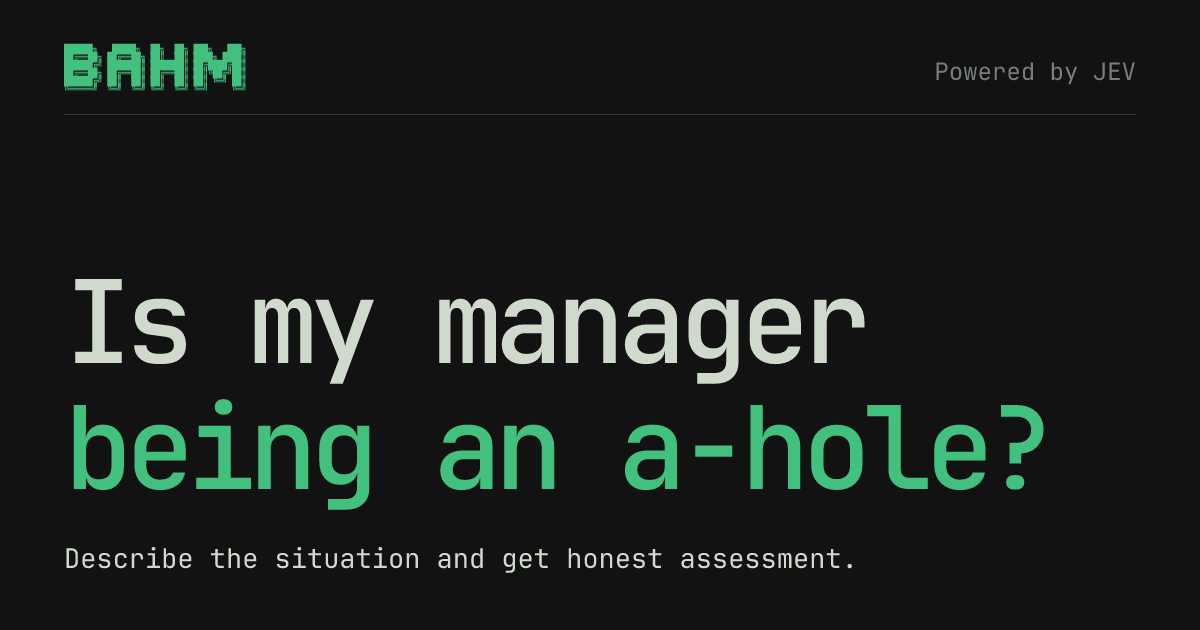
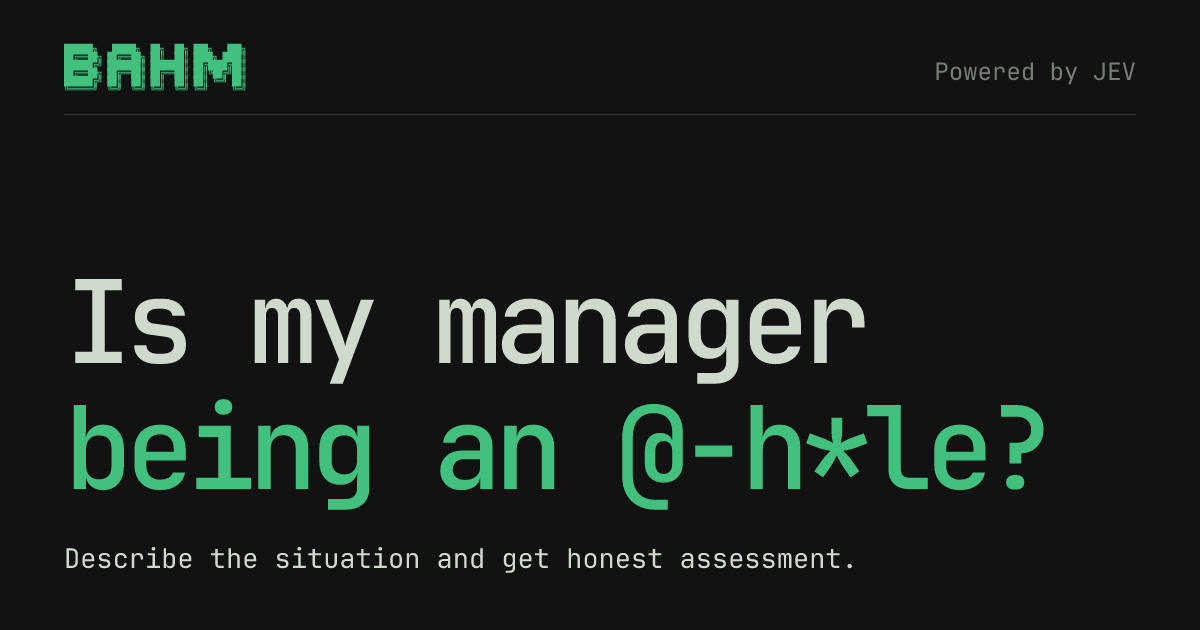
Refine social previews and allow homepage indexing

Changed region(s): [[0.4933, 0.6333, 0.5858, 0.8143], [0.6475, 0.6635, 0.74, 0.7841]]

diff --git a/tests/share.test.js b/tests/share.test.js
@@ -13,7 +13,7 @@ const env = { DB, ASSETS };
 const request = (path, method = 'GET') => worker.fetch(new Request(`https://bahm.example${path}`, { method }), env);
 test('home HTML provides absolute crawler metadata and a real 1200x630 PNG', async () => {
   const html = await (await request('/')).text();
-  assert.match(html, /property="og:image" content="https:\/\/bahm.example\/share\/home.png\?v=12"/);
+  assert.match(html, /property="og:image" content="https:\/\/bahm.example\/share\/home.png\?v=14"/);
   assert.equal((html.match(/<title>/g) || []).length, 1);
   const response = await request('/share/home.png');
   assert.equal(response.headers.get('Content-Type'), 'image/png');
@@ -29,7 +29,7 @@ test('saved results include escaped story descriptions and static verdict image 
     await handleAssessment(new Request('https://bahm.example/api/assess', {method:'POST',headers:{'Content-Type':'application/json'},body:JSON.stringify({id,situation:'Private story text <script>secret</script>'})}), {...env,JEV_API_KEY:'test'}, async () => Response.json(payload));
     const response = await request(`/results/${id}`); const html = await response.text();
     assert.equal(response.status,200); assert.ok(html.includes(`https://bahm.example/share/${verdict}.png`));
-    assert.ok(html.includes(verdict === 'yes' ? 'Yes. That’s' : 'No. This doesn’t')); assert.ok(html.includes('Private story text &lt;script&gt;secret&lt;/script&gt;')); assert.ok(!html.includes('<script>secret</script>'));
+    assert.ok(html.includes(verdict === 'yes' ? 'This behavior crosses the line' : 'This behavior doesn’t cross the line')); assert.ok(html.includes('Private story text &lt;script&gt;secret&lt;/script&gt;')); assert.ok(!html.includes('<script>secret</script>'));
     const legacy = await request(`/share/${id}.png`); assert.equal(legacy.status,302); assert.ok(legacy.headers.get('Location').includes(`/share/${verdict}.png`));
     assert.equal(await (await request(`/results/${id}`,'HEAD')).text(),'');
   }
@@ -69,4 +69,19 @@ test('configured production origin controls canonical and social URLs on alterna
   assert.ok(html.includes('property="og:image" content="https://bahm.maximkich.com/share/home.png'));
   assert.ok(html.includes('name="twitter:image" content="https://bahm.maximkich.com/share/home.png'));
   assert.ok(!html.includes('https://preview.example'));
+});
+
+test('homepage is indexable while result pages and admin stay excluded', async () => {
+  for (const path of ['/', '/index.html']) {
+    const response = await request(path);
+    assert.equal(response.headers.get('X-Robots-Tag'), 'index, follow');
+    assert.match(await response.text(), /<meta name="robots" content="index, follow">/);
+  }
+  const response = await request(`/results/${crypto.randomUUID()}`);
+  assert.equal(response.headers.get('X-Robots-Tag'), 'noindex, nofollow, noarchive');
+  assert.match(await response.text(), /<meta name="robots" content="noindex, nofollow, noarchive">/);
+  const admin = await readFile(new URL('../public/fucked-up-stories.html', import.meta.url), 'utf8');
+  assert.match(admin, /<meta name="robots" content="noindex,nofollow,noarchive">/);
+  const headers = await readFile(new URL('../public/_headers', import.meta.url), 'utf8');
+  assert.match(headers, /X-Robots-Tag: noindex, nofollow, noarchive/);
 });

diff --git a/public/share-data.js b/public/share-data.js
@@ -1,6 +1,6 @@
-export const SHARE_IMAGE_VERSION = '12';
+export const SHARE_IMAGE_VERSION = '14';
 export const homeShare = {
-  title: 'BAHM — Is my manager being an a-hole?',
+  title: 'BAHM — An AI perspective on management behavior',
   description: 'Get an AI assessment of the management behavior. Describe the situation and get an honest view.'
 };
 export function resultDescription(story = '') {
@@ -17,9 +17,9 @@ export function resultDescription(story = '') {
 }
 export function shareData(origin, data) {
   const result = data?.state === 'result';
-  const title = result ? `BAHM — ${data.verdict === 'yes' ? 'Yes. That’s a-hole behavior.' : 'No. This doesn’t cross the line.'}` : homeShare.title;
+  const title = result ? `BAHM — ${data.verdict === 'yes' ? 'This behavior crosses the line' : 'This behavior doesn’t cross the line'}` : homeShare.title;
   const description = result ? resultDescription(data.story) : homeShare.description;
-  return { title, description, url: `${origin}${data?.id ? `/results/${data.id}` : '/'}`, image: `${origin}/share/${result ? data.verdict : 'home'}.png?v=${SHARE_IMAGE_VERSION}`, imageAlt: result ? `BAHM. Powered by JEV. ${data.verdict === 'yes' ? 'Yes. That’s an a-hole manager.' : 'An a-hole manager was not detected.'}` : 'BAHM. Powered by JEV. Is my manager being an a-hole? Describe the situation and get an honest assessment.' };
+  return { title, description, url: `${origin}${data?.id ? `/results/${data.id}` : '/'}`, image: `${origin}/share/${result ? data.verdict : 'home'}.png?v=${SHARE_IMAGE_VERSION}`, imageAlt: result ? `BAHM. Powered by JEV. ${data.verdict === 'yes' ? 'Assessment result: this management behavior crosses the line.' : 'Assessment result: this management behavior doesn’t cross the line.'}` : 'BAHM. Is my manager crossing the line? An AI assessment of management behavior. Powered by JEV.' };
 }
 export const escapeHtml = value => String(value).replace(/[&<>"']/g, c => ({ '&': '&amp;', '<': '&lt;', '>': '&gt;', '"': '&quot;', "'": '&#39;' }[c]));
 export function shareTags(meta) {

diff --git a/public/index.html b/public/index.html
@@ -4,9 +4,9 @@
   <meta charset="UTF-8">
   <meta name="viewport" content="width=device-width, initial-scale=1">
   <meta name="description" content="Describe a management situation and take a closer look at the behavior.">
-  <meta name="robots" content="noindex, nofollow, noarchive">
+  <meta name="robots" content="index, follow">
   <meta name="theme-color" content="#111211">
-  <title>BAHM — Is my manager being an a-hole?</title>
+  <title>BAHM — An AI perspective on management behavior</title>
   <link rel="icon" href="/favicon.svg" type="image/svg+xml">
   <link rel="stylesheet" href="/styles.css">
   <script type="module" src="/app.js"></script>
@@ -54,7 +54,7 @@
 ╚═╝  ╚═╝ ╚═╝  ╚═══╝ ╚═╝  ╚═╝  ╚═════╝  ╚══════╝ ╚═╝  ╚═╝ </span></span></span></a><button id="share" class="text-button" type="button">Share</button><span id="share-status" class="share-status" role="status"></span></header>
   <main id="main" class="home-main">
     <section id="input-view" class="input-view" aria-labelledby="main-title">
-      <h1 id="main-title" class="home-title">Is my manager<br>being an <em>a-hole?</em></h1>
+      <h1 id="main-title" class="home-title">Is my manager<br>being an <em>@-h*le?</em></h1>
       <form id="story-form" novalidate>
         <div class="input-box">
           <textarea id="situation" name="situation" aria-label="Management situation" aria-describedby="word-count submission-notice" placeholder="Describe what your manager did at work." required></textarea>

diff --git a/src/share.js b/src/share.js
@@ -9,10 +9,10 @@ export function shareSvg(data) {
   let content = logo + text(1136, 80, 24, 'Powered by JEV', '#777D77').replace('x="1136"', 'x="1136" text-anchor="end"');
   const headline = (y, value, fill) => text(64, y, 115, value, fill).replace('<text ', '<text letter-spacing="-0.065em" font-weight="600" ');
   if (result) {
-    const lines = data.verdict === 'yes' ? ['Yes. That’s an', 'a-hole manager.'] : ['An a-hole manager', 'was not detected.'];
+    const lines = data.verdict === 'yes' ? ['Yes. That’s an', '@-h*le manager.'] : ['An @-h*le manager', 'was not detected.'];
     lines.forEach((line, i) => { content += headline(568 - (lines.length - 1 - i) * 126, line, color); });
   } else {
-    content += headline(363, 'Is my manager', '#CFDACD') + headline(489, 'being an a-hole?', color);
+    content += headline(363, 'Is my manager', '#CFDACD') + headline(489, 'being an @-h*le?', color);
     content += text(64, 568, 27, 'Describe the situation and get honest assessment.');
   }
   return `<svg xmlns="http://www.w3.org/2000/svg" width="1200" height="630" viewBox="0 0 1200 630"><rect width="1200" height="630" fill="#111211"/><rect x="64" y="114" width="1072" height="1" fill="#363936"/>${content}</svg>`;

diff --git a/src/worker.js b/src/worker.js
@@ -149,11 +149,13 @@ export default {
       const shell = await env.ASSETS.fetch(new Request(new URL('/', request.url), { method: 'GET' }));
       const headers = new Headers(shell.headers);
       headers.set('Cache-Control', 'no-store');
-      headers.set('X-Robots-Tag', 'noindex, nofollow, noarchive');
+      const robots = pathname.startsWith('/results/') ? 'noindex, nofollow, noarchive' : 'index, follow';
+      headers.set('X-Robots-Tag', robots);
       headers.set('Referrer-Policy', 'no-referrer');
       headers.delete('Content-Length');
       headers.delete('ETag');
       let html = await shell.text();
+      html = html.replace(/<meta name="robots"[^>]*>/, `<meta name="robots" content="${robots}">`);
       html = html.replace(/<title>.*?<\/title>/s, '').replace(/<meta name="description"[^>]*>/, '');
       const meta = shareData(env.SITE_URL || new URL(request.url).origin, data?.state === 'result' ? data : undefined);
       html = html.replace('</head>', `${shareTags(meta)}\n</head>`);

diff --git a/public/app.js b/public/app.js
@@ -93,7 +93,7 @@ function renderResult(data, story = $('situation').value) {
   storyTitle.hidden = !data.title;
   $('submitted-story').textContent = story;
   $('submitted-story').setAttribute('aria-label', data.edited ? 'Edited story' : 'Your submitted story');
-  $('verdict-title').textContent = yes ? 'Yes. That’s a-hole behavior.' : 'No. This doesn’t cross the line.';
+  $('verdict-title').textContent = yes ? 'Yes. That’s @-h*le behavior.' : 'No. This doesn’t cross the line.';
   $('confidence').textContent = `Model confidence: ${Math.round(data.confidence * 100)}%`;
   const cards = scales.map(scale => {
     const score = data.scores.find(item => item.id === scale.id);
